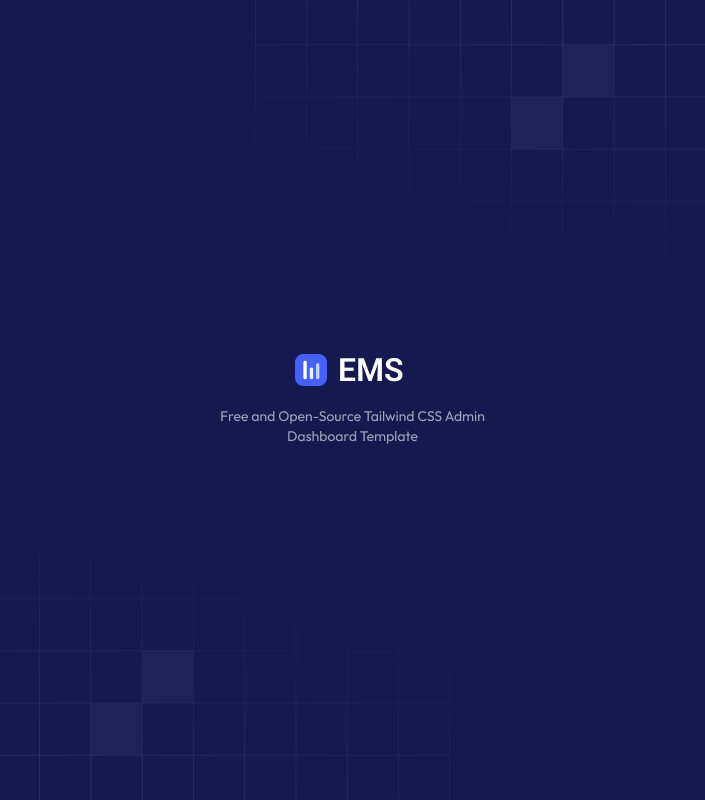
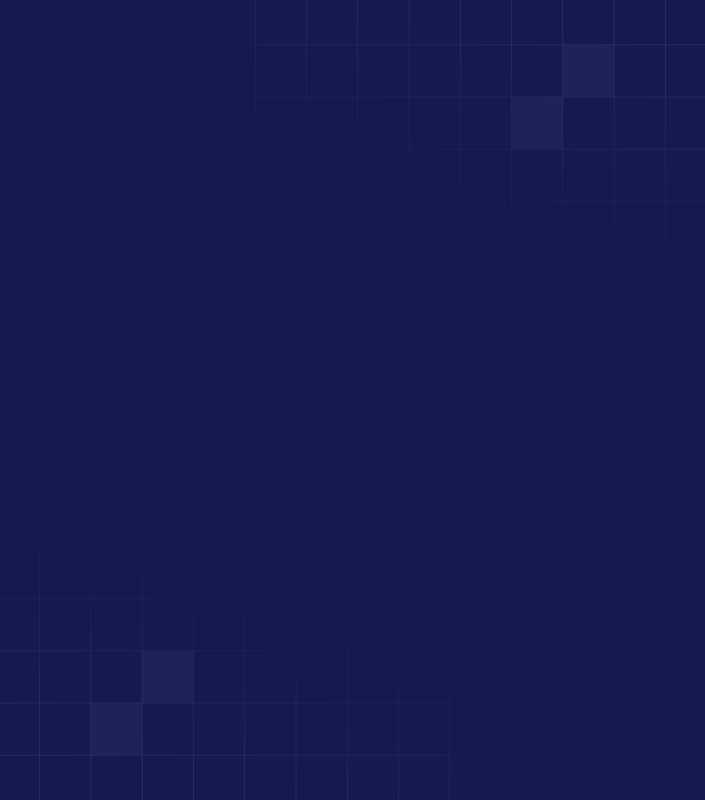
refactor: fix style notification and refactor public layout

Changed region(s): [[0.3121, 0.4375, 0.6865, 0.5625]]

diff --git a/src/components/templates/PublicLayout/PublicLayout.tsx b/src/components/templates/PublicLayout/PublicLayout.tsx
@@ -2,7 +2,7 @@ import { Layout, Image } from 'antd';
 import { Outlet } from 'react-router-dom';
 
 import SignInArea from '@app/assets/images/sign_in_area.png';
-
+import Logo from '@app/assets/logo.png';
 import './PublicLayout.scss';
 
 const PublicLayout = () => (
@@ -10,7 +10,7 @@ const PublicLayout = () => (
     <div>
       <Outlet />
     </div>
-    <div className='overflow-hidden hidden md:block'>
+    <div className='overflow-hidden hidden md:block relative'>
       <Image
         draggable={false}
         preview={false}
@@ -19,6 +19,17 @@ const PublicLayout = () => (
         height={'100%'}
         alt='logo'
       />
+      <div className='absolute inset-0 flex items-center justify-center'>
+        <div className='flex flex-col items-center gap-y-4 w-1/2'>
+          <div className='flex items-center gap-x-2'>
+            <Image preview={false} src={Logo} width={40} height={40} />
+            <h1 className='text-white'>EMS</h1>
+          </div>
+          <p className='text-base text-center text-gray-400'>
+            System provides effective energy management solutions
+          </p>
+        </div>
+      </div>
     </div>
   </Layout>
 );

diff --git a/src/components/molecules/Notification/Notification.scss b/src/components/molecules/Notification/Notification.scss
@@ -1,8 +1,12 @@
 .ant-notification-notice {
-  border-radius: 12px;
-  width: fit-content;
-  padding: 10px;
+  border-radius: 6px;
+  padding: 18px !important;
 }
+
+.ant-notification-notice-wrapper {
+  overflow: hidden !important;
+}
+
 .notification-success {
   background-color: #00c07e;
 }
@@ -20,22 +24,23 @@
 }
 
 .ant-notification-notice-message {
-  color: white;
+  color: white !important;
   font-size: 14px !important;
+  margin-bottom: 0 !important;
 }
 
 .anticon.ant-notification-notice-icon-error {
-  color: white;
+  color: white !important;
 }
 
 .anticon.ant-notification-notice-icon-success {
-  color: white;
+  color: white !important;
 }
 
 .anticon.ant-notification-notice-icon-info {
-  color: white;
+  color: white !important;
 }
 
 .anticon.ant-notification-notice-icon-warning {
-  color: white;
+  color: white !important;
 }

diff --git a/src/components/molecules/Notification/NotificationService.tsx b/src/components/molecules/Notification/NotificationService.tsx
@@ -36,7 +36,7 @@ export const openNotificationWithIcon = (type: NotificationTypeEnum, description
     message: description,
     className: `notification-${type}`,
     closeIcon: <></>,
-    placement: 'bottom',
+    placement: 'topRight',
     icon: icon,
   });
 };
